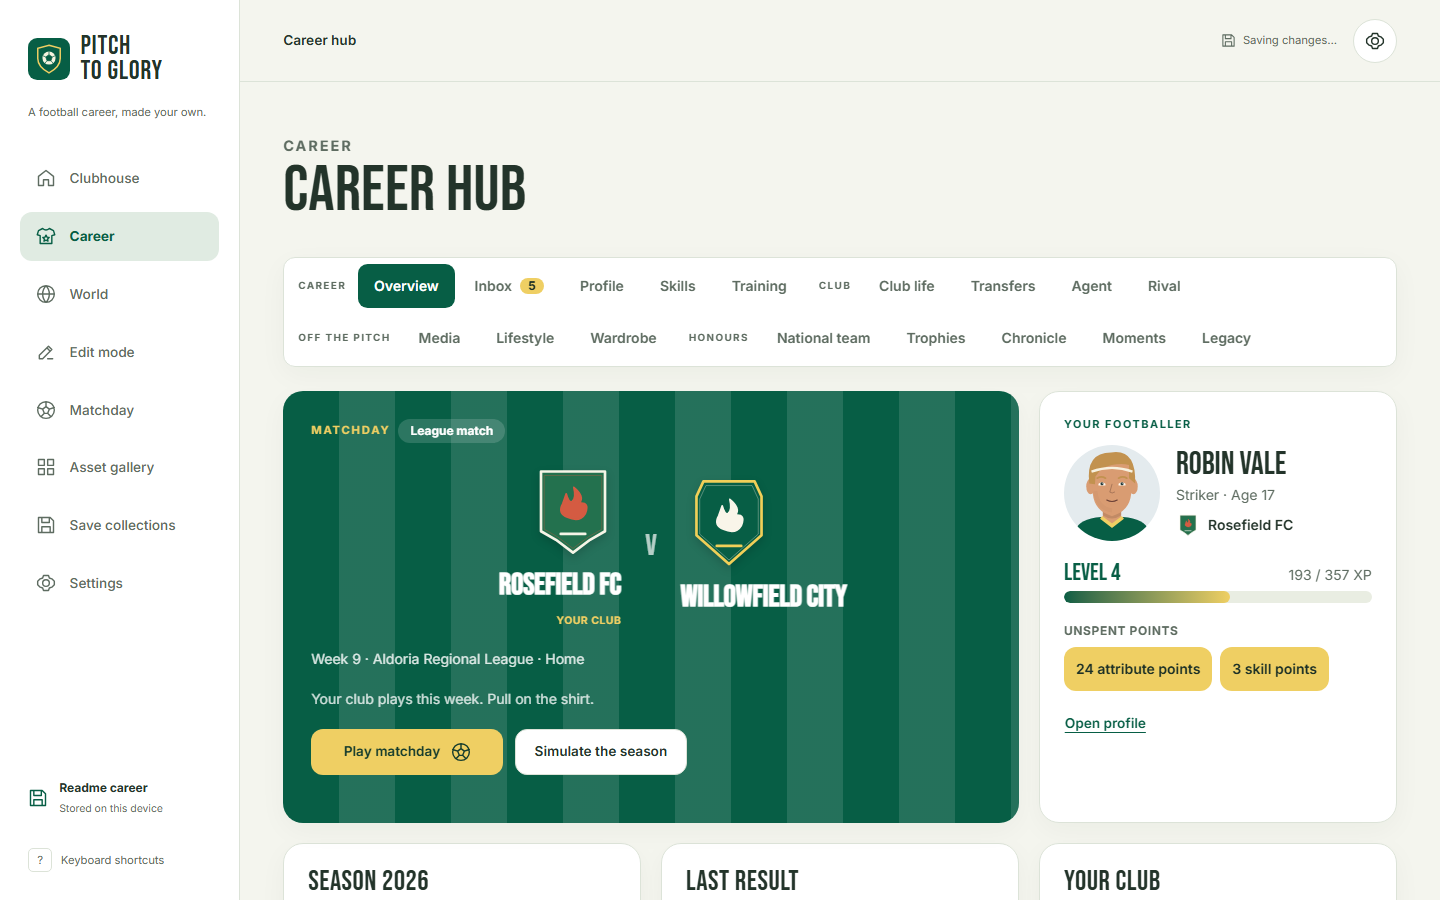
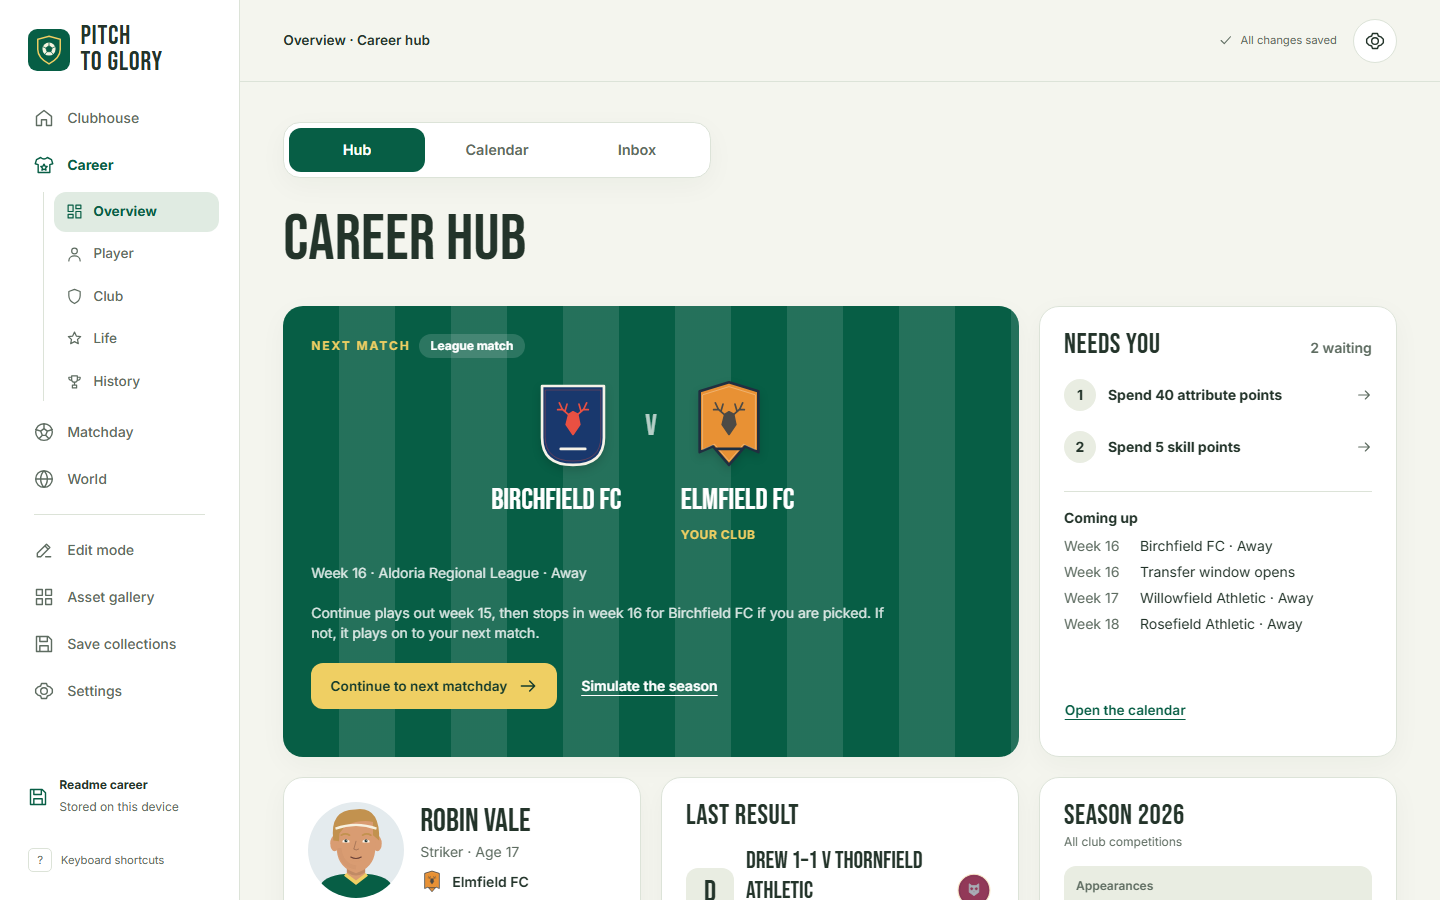
Show the new navigation, hub and calendar in the README
Replace the hub screenshots taken before the grouped navigation, add the
calendar, describe the prioritized hub and five career sections, correct
the unit test count and save schema version, and list the improvement
plan's phases on the roadmap.

diff --git a/README.md b/README.md
@@ -33,11 +33,11 @@ Matches play out on a 2D pitch and stop for **your** decisions. Every choice sho
 <table>
   <tr>
     <td width="50%"><img src="docs/images/match.png" alt="Matchday: the scoreboard, a top-down pitch with player tokens in kit colours, and live statistics." /></td>
-    <td width="50%"><img src="docs/images/career-hub.png" alt="The career hub: the next fixture, the footballer's level, XP and unspent points." /></td>
+    <td width="50%"><img src="docs/images/career-hub.png" alt="The career hub: the next fixture with what Continue will do, and a Needs you list of what is waiting, beside the five career sections." /></td>
   </tr>
   <tr>
     <td><b>Matchday.</b> Speed controls, live commentary, momentum and your live rating, with a pitch rendered by PixiJS (an SVG fallback covers every browser).</td>
-    <td><b>Career hub.</b> Your next match, level and XP, unspent points, condition, training, fame, the press, your rival and the transfer market.</td>
+    <td><b>Career hub.</b> Your next match and exactly what Continue will play, a <i>Needs you</i> list ordered by urgency, then your level, condition, club, season and everything else at a glance.</td>
   </tr>
   <tr>
     <td><img src="docs/images/golden-ball.png" alt="The Golden Ball ceremony: a ranked shortlist of ten players with their clubs and points, the winner highlighted." /></td>
@@ -57,7 +57,15 @@ Matches play out on a 2D pitch and stop for **your** decisions. Every choice sho
   </tr>
 </table>
 
-<img src="docs/images/mobile-hub-dark.png" alt="The career hub on a phone in dark mode, with the bottom tab bar." width="240" align="right" />
+### Always know what to do next
+
+The hub puts the next action first. _Needs you_ lists what is waiting, most urgent first: an injury that needs a recovery plan, your match, transfer talks, press questions and sponsor offers before they lapse, then unspent points. Before you continue, the hub says which weeks will be played, where it will stop and which deadlines would pass on the way; afterwards, a short summary reports what actually happened while the world played on. The calendar lays out the whole season week by week, and nothing ever predicts a result or a team selection in advance.
+
+<p align="center">
+  <img src="docs/images/calendar.png" alt="The calendar: the season week by week, with this week's fixture and training, transfer windows and later fixtures, each with the opponent's crest." width="720" />
+</p>
+
+<img src="docs/images/mobile-hub-dark.png" alt="The career hub on a phone in dark mode: the next match and the Continue button above a five-section tab bar." width="240" align="right" />
 
 ### What you can do
 
@@ -77,6 +85,7 @@ Six real countries — England, France, Spain, Germany, Italy and Portugal — w
 - **Accessible**: every screen checked with axe against WCAG 2.1 AA (no serious or critical issues) in light and dark themes; full keyboard play (Space, 1–4, arrows, Escape, `?`); screen-reader labels; text size from 85% to 130%; reduced motion; a simulation-only mode; colour-blind-safe kit choice.
 - **Fast**: a startup bundle of 80 KB gzipped, with everything else loaded on demand. Mobile Lighthouse performance 86–95 and accessibility 100 on every audited page.
 - **Yours**: no account, no ads, no tracking. Three save slots in your browser, backup export and import, and offline play after the first visit. All art is procedural SVG and every sound is synthesised on your device.
+- **Easy to find your way**: the career is grouped into five sections (Overview, Player, Club, Life and History), each opening with page tabs that never move. On phones a five-slot tab bar and a More sheet replace sideways scrolling, and Back closes the sheet.
 - **Guided**: a short tour during your first week and your first match.
 
 <br clear="right" />
@@ -111,7 +120,7 @@ flowchart LR
 
 - **A pure engine.** Everything that decides results lives in `src/engine/`: plain, deterministic TypeScript with a seedable RNG and no browser globals or imports (enforced by lint). The same code runs in the UI, in Web Workers and in Node tests, so any career or match replays exactly from its seed.
 - **Workers for heavy work.** Season simulation and save validation run off the main thread, with progress and cancellation, so the interface never freezes.
-- **Saves you can trust.** Versioned save schema (now 13) with migrations from every earlier version, strict validation of every record, revision checks, and one browser tab per save slot.
+- **Saves you can trust.** Versioned save schema (now 14) with migrations from every earlier version, strict validation of every record, revision checks, and one browser tab per save slot.
 - **Code-split by route.** Each screen is its own chunk; PixiJS, the save system, audio and animation features load only when needed.
 
 ### The match engine is calibrated
@@ -146,7 +155,7 @@ xychart-beta
 
 ```mermaid
 flowchart LR
-  Push["Push to main"] --> Verify["verify (Linux)<br/>Prettier · ESLint · 245 unit tests<br/>typecheck · build · bundle budget"]
+  Push["Push to main"] --> Verify["verify (Linux)<br/>Prettier · ESLint · 295 unit tests<br/>typecheck · build · bundle budget"]
   Verify --> C["Chromium journeys<br/>(Windows)"]
   Verify --> F["Firefox journeys<br/>(Windows)"]
   Verify --> W["WebKit journeys<br/>(Windows)"]
@@ -221,6 +230,15 @@ public/          icons, share card, production headers
 - [x] 9 · Edit mode, accessibility, the tutorial, audio and polish
 - [x] 10 · Web release: deployment, offline play, performance and share tags
 - [ ] 11 · Android app with Capacitor
+
+After the web release, a [high-value improvements plan](docs/superpowers/plans/2026-10-07-high-value-improvements.md) comes first:
+
+- [x] Trustworthy results, statistics, awards, trophies and legacies
+- [x] Key moments that keep the situation in view on desktop and phone
+- [x] Grouped career navigation, a prioritized hub and a personal calendar
+- [ ] Multi-generation endurance tests and performance gates on real play states
+- [ ] Formation-aware selection, positions and coaching advice
+- [ ] One sustained story arc: a manager's development promise
 
 ## Documentation
 
